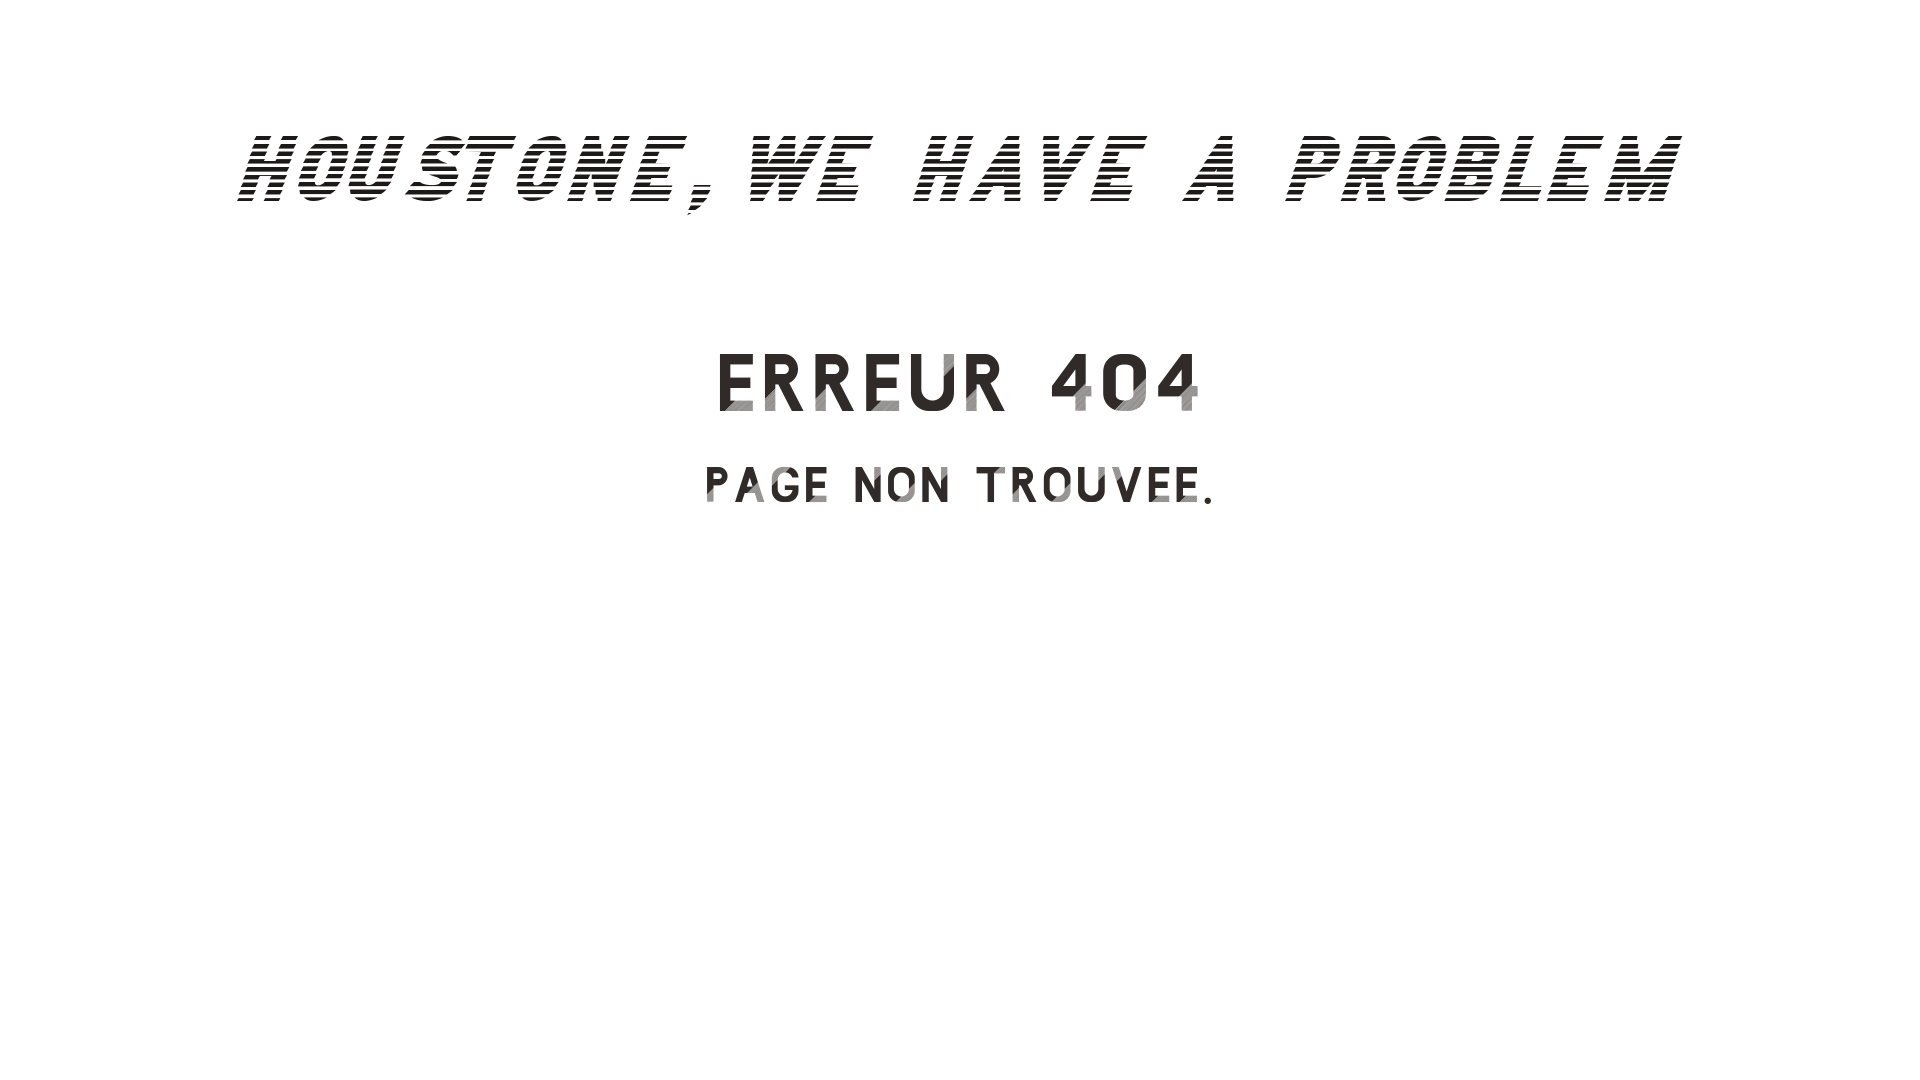
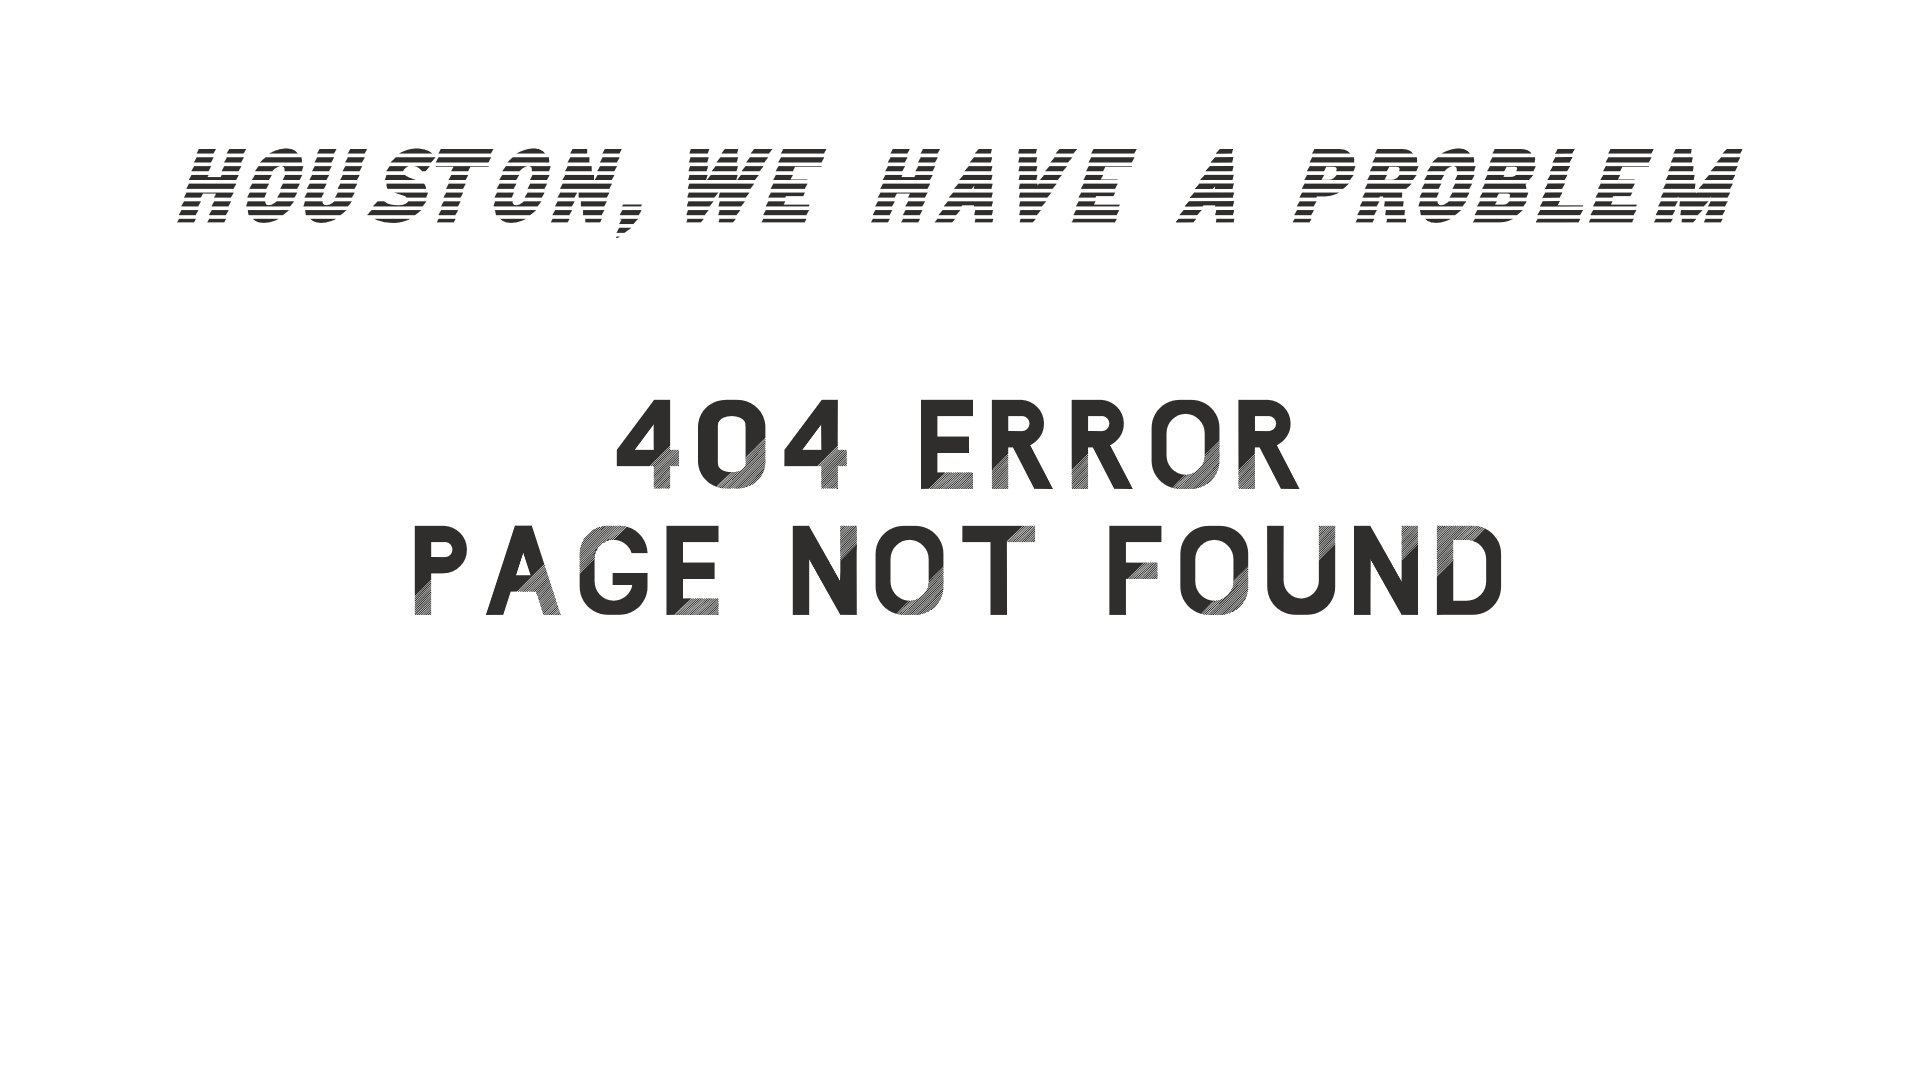
error pages

Changed region(s): [[0.2188, 0.3056, 0.7812, 0.5806], [0.0938, 0.1222, 0.9062, 0.2139]]

diff --git a/stoneAdvisor/google_api/request.py b/stoneAdvisor/google_api/request.py
@@ -1,0 +1,15 @@
+import requests
+
+# Google Place API only returns five results so we'll have to make multiple queries
+places = []
+
+# Paris
+url = "https://maps.googleapis.com/maps/api/place/textsearch/json?query=archéo%2018%20arrondissement&key=AIzaSyC1hPxGQ258UePGhTHNvICRuUKb2cgP8hg"
+
+payload={}
+headers = {}
+
+response = requests.request("GET", url, headers=headers, data=payload)
+
+print(response.text)
+places.append(response.text)
